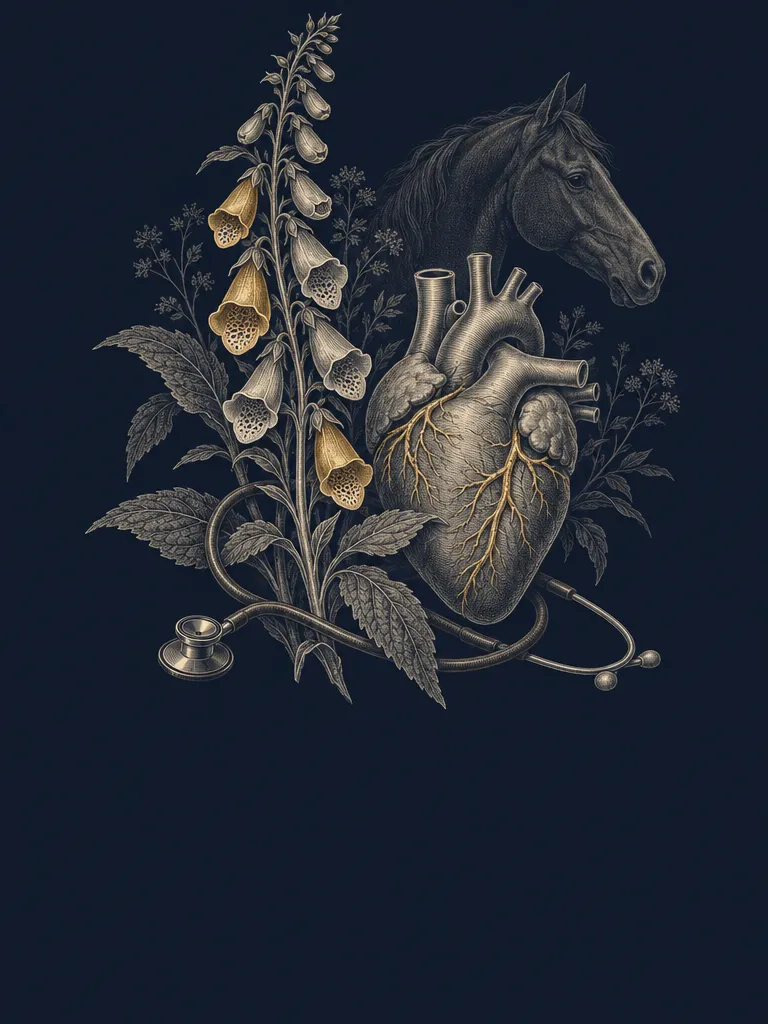
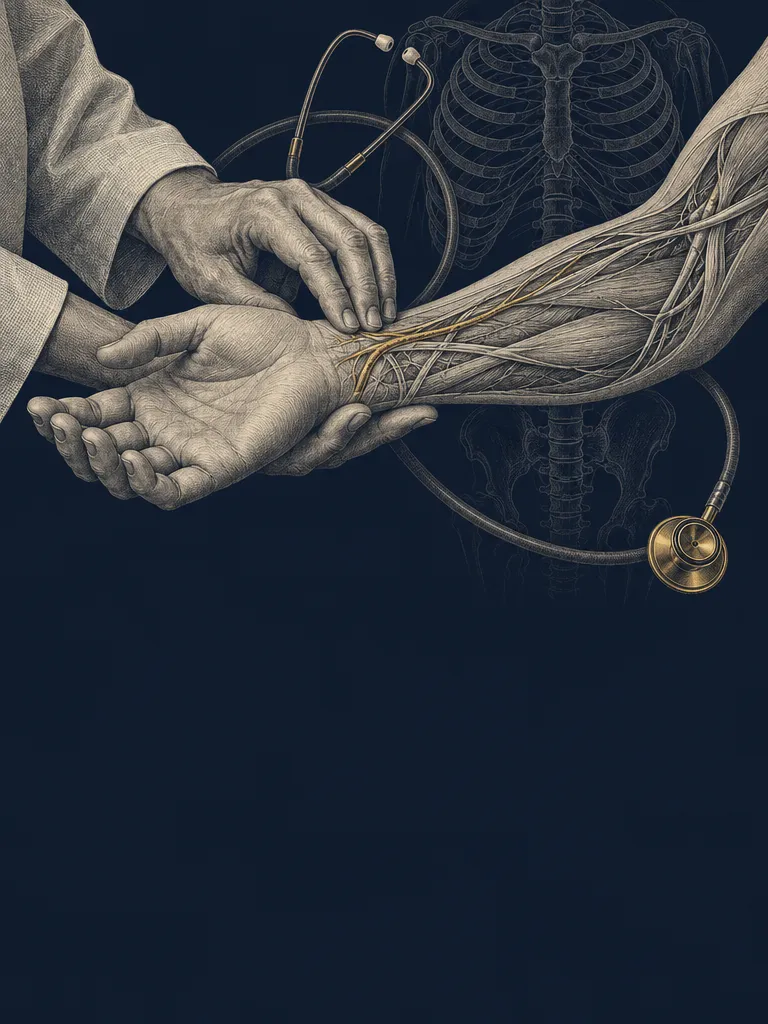
Wat word jij?: menselijkere Zorg-plaat en vullende platen voor Lab, Voeding, Groen en Onderwijs
Claude-Session: https://claude.ai/code/session_01Du5sZ3huPWHdbAscW3KrVh

diff --git a/vervolg.html b/vervolg.html
@@ -398,8 +398,8 @@ body.overzicht .ovz{background:color-mix(in srgb,var(--surface) 86%,transparent)
    Een losse tekst (oude vorm) werkt ook nog. Een film die af is: zet hem als [titel, href], dan wordt het een link.
    'pta' bevat alle films uit 'bouwt'; draai scripts/vervolg_films.py na wijzigingen.
    bouwt: hoofdstukken op deze site waar het gebied op voortbouwt [label, hoofdstuk-id] ===== */
-/* Vullende gravureplaat per richting in het overzicht: img/kunst/vervolg/<id>.webp (Kamiel 21 okt 2026, test met twee) */
-const KPLAAT = ['gedrag','zorg'];
+/* Vullende gravureplaat per richting in het overzicht: img/kunst/vervolg/<id>.webp (Kamiel 21 okt 2026, alle zes richtingen) */
+const KPLAAT = ['gedrag','zorg','lab','voeding','groen','onderwijs'];
 const CLUSTERS = [
  {id:'gedrag',naam:'Gedrag en hersenen',kleur:'paars',sub:'Denken, voelen, opgroeien',tekst:'Opleidingen over denken, voelen en gedrag, en de biologie die daaronder ligt.'},
  {id:'zorg',naam:'Zorg en geneeskunde',kleur:'koraal',sub:'Mens en dier behandelen',tekst:'Opleidingen waarin je met het menselijk (of dierlijk) lichaam werkt: diagnose stellen, behandelen, verzorgen.'},
@@ -766,7 +766,7 @@ function overzicht(){
     return [k?`${k} ${k===1?'film':'films'}`:'',n?`${n} komt nog`:''].filter(Boolean).join(' · ')||'komt nog'};
   const tegel=g=>{const c=CL[g.cluster];return `<li><a href="${stap>1?'?stap='+stap:''}#${g.id}"><span class="tk">${VICOON.includes(g.id)?`<img src="img/kunst/iconen/vervolg/${g.id}.webp?v=1" alt="" width="88" height="88" loading="lazy" decoding="async">`:kunst(c.id,c.kleur)}</span><b>${esc(g.naam).replace(/(\S)wetenschappen/g,'$1\u00ADwetenschappen')}</b><span class="mat">${esc(tel(g))}</span></a></li>`};
   return `<section class="ovz" aria-label="Alle vakgebieden"><header><span class="mono">Alle richtingen · studie en beroep</span><h2>Van spreekkamer tot veldwerk</h2><p>Kies een vakgebied. Elk gebied heeft extra films buiten het PTA, en straks ook een werkdag, een praktijkopdracht en de opleidingen.</p></header>
-    ${CLUSTERS.map(c=>`<div class="ovg" id="${c.id}"><div class="ovg-kop${KPLAAT.includes(c.id)?' met-plaat':''}">${KPLAAT.includes(c.id)?`<span class="kplaat" aria-hidden="true" style="--kp:url(img/kunst/vervolg/${c.id}.webp?v=1)"></span>`:''}<h3>${esc(c.naam)}</h3><span class="mono">${esc(c.sub||'')}</span></div><ul>${GEBIEDEN.filter(g=>g.cluster===c.id).map(tegel).join('')}</ul></div>`).join('')}</section>`;
+    ${CLUSTERS.map(c=>`<div class="ovg" id="${c.id}"><div class="ovg-kop${KPLAAT.includes(c.id)?' met-plaat':''}">${KPLAAT.includes(c.id)?`<span class="kplaat" aria-hidden="true" style="--kp:url(img/kunst/vervolg/${c.id}.webp?v=2)"></span>`:''}<h3>${esc(c.naam)}</h3><span class="mono">${esc(c.sub||'')}</span></div><ul>${GEBIEDEN.filter(g=>g.cluster===c.id).map(tegel).join('')}</ul></div>`).join('')}</section>`;
 }
 function render(){
   const g=GB[(location.hash||'').slice(1)];

diff --git a/CLAUDE.md b/CLAUDE.md
@@ -1,6 +1,6 @@
 # Biologie bij Kamiel — werkafspraken voor Claude
 
-Statische site (GitHub Pages, branch `main`, map `/`): `index.html` is de nieuwe site (sinds 12 okt 2026; de inhoud staat als JSON in `HOOFDSTUKKEN` en `NIVEAUS` bovenin het script, hash-routes `#<hoofdstuk>`, `#films`, `#tools`, `#pta`). Sinds 20 okt 2026 is de hoofdpagina (`#home`, menu 'Thema's') opgebouwd uit drie vlakken los van het PTA: 'Van molecuul tot planeet' (alle thema's, gegroepeerd in `BASIS` in het script), 'Eerste ontdekkingen' (onderbouw, uit `NIVEAUS.onderbouw`) en 'Een kijkje vooruit' (Wat word jij?, richtingen in `VERDER` → `vervolg.html#<cluster>`); de oude hoofdpagina per PTA-onderdeel staat onder het tabblad 'PTA Agora' (`#pta`, functie `pta()`). Een nieuw thema zet je ook in `BASIS`. Achtergrond hoofdpagina (Kamiel 20 okt 2026: kunst en biologie gecombineerd, niet per se de thema's): vier procedureel getekende bio-art-platen in `KUNSTPLATEN` (Groei: zonnebloemspiraal en varens · Onder de microscoop: radiolariën en diatomeeën · Netwerk: schimmeldraden · In zee: kwallen en nautilus) plus beeldplaten in `FOTOPLATEN`, met ElevenLabs gemaakte nieuwe versies van dezelfde vier (21 okt 2026: `img/kunst/plankton.webp`, `groei.webp`, `netwerk.webp`, `zee.webp`, en als nieuwe thema's zonder oude tekening `oerbos.webp`, `mieren.webp` (mierenkolonie) en `kolibrie.webp` (de kolibrie is een videoloop van 5 s, `kolibrie.webm` + `.mp4`, poster = `kolibrie.webp`; derde veld in `FOTOPLATEN` = video, speelt alleen als hij zichtbaar is via `grondVideo()`, niet bij 'minder beweging'; seedance-video kostte ±14.000 credits. Vierde veld `{voor:[cx,cy,rx,ry]}` (beeldfracties) tekent dat deel van de plaat via canvas `#kunstvoor` (`voorLus`, mix-blend lighten, zachte ellips) bovenop de titelkaart en het eerste vlak eronder: Kamiel wilde de kolibrie vóór de kaart). Kamiel 21 okt 2026: de getekende platen staan in de donkere stand even uit (`TEKENPLATEN_DONKER=false`, klasse `zonder-tekening`); in de lichte stand draaien ze nog, want de beelden zijn donker; De ronde themapictogrammen in de themategels van de hoofdpagina zijn sinds 21 okt 2026 ElevenLabs-medaillons (`img/kunst/iconen/<id>.webp`, uitgeknipt uit één vel zodat de stijl gelijk is; Kamiel vond de eerste klassieke versie te 'vergankelijk' en wilde iets frissers: daarna een frisse glanzende versie (`iconen/fris/`, `varianten/iconen-fris-*.webp`), toen een tussenversie (inktlijnen + aquarel, `iconen/aquarel/`, `varianten/iconen-midden-*.webp`), en Kamiel wilde ze 'nog meer in de stijl van de achtergronden, qua look én thema': nu de gloedversie (Haeckel-achtig, gloeiend op navy met bokeh, zelfde stijl als de ElevenLabs-achtergronden; onderwerpen als bio-art: darmvlokken bij Voeding, alveolen bij Gaswisseling, wolf bij Ecologie, radiolarie in een boek bij Examen) uit `varianten/iconen-gloed-3.webp`, op 88 px (72 px op de telefoon), uitgeknipt op 264 px; vel altijd als raster 6×3 laten maken, zodat de cirkels in 16:9 echt rond blijven (4×4 werd ovaal); uitknippen met `python3 scripts/iconen_knippen.py <vel.png> img/kunst/iconen <voorbeeld.png>` (cirkelfit op de gouden rand); de klassieke staat in `iconen/klassiek/` en `varianten/iconen-1..4.webp`; na het vervangen de `?v=` bij de pictogrammen in index.html ophogen), lijst `ICOON` in index.html (niet in de lijst = oude lijntekening uit `KUNST`; elders op de site blijven de lijntekeningen). Ook de rijen 'Eerste ontdekkingen' (onderbouw, `OB`) en 'Een kijkje vooruit' (`VERDER`) op de hoofdpagina hebben sinds 21 okt 2026 gloedmedaillons van 56 px: `img/kunst/iconen/home/ob-<kerndoel>.webp` en `v-<richting>.webp`, lijst `HICOON` in index.html; vel `img/kunst/varianten/home/vel-1.webp` (18 vakken, gpt-image-2 met het vervolg-vel als stijlreferentie, ±420 credits; gekozen vak 1, 3, 5, 7, 9, 12, 13, 15, 16, 17, de andere vakken zijn reserves: hart van cellen, paardenbloem, witte bloedcel, uil met muis, chimpansee, stethoscoophart, vergrootglas op blad, schoolbord). Themaplaten als ElevenLabs-gravure voor alle 16 thema's (Kamiel 21 okt 2026 koos de gravurestijl, net als de wolf; de procedurele platen in `T.<id>` blijven als reserve staan): `img/themakunst/<id>-gravure.webp`, ingebouwd via `GRAVURE` in js/themakunst.js (`[bestand, x, y, breedte]` in het 1600×1000-vlak, standaard 640, 215, 900; zachte radiale maskerrand zodat de iets lichtere navy van het beeld niet als rechthoek opvalt; hoofdfiguur leeg, zonder uitsparing). Ecologie gebruikt sinds 21 okt 2026 ook een gravure in deze stijl (`ecologie-gravure.webp`: wolf met edelhert, wild zwijn, haas, eik en den; Kamiel vond de nachtscène met huilende wolf 'nét een andere stijl'; die staat nog als `ecologie-wolf.webp` en in `T.ecologie`). Evolutie: Kamiel wil Charles Darwin, dus `evolutie-darwin.webp` (Darwin in ovaal medaillon tussen vinken, reuzenschildpad en de Beagle); de vinkenboom staat als `evolutie-gravure-vinken.webp`. De kleurproeven staan nog in `img/kunst/thema/` en op kunst.html; Haeckel-achtig, donker navy, rustig vlak links-midden; alleen in de donkere stand, de roulatie slaat verborgen platen over). Kamiel wil oud en nieuw voorlopig náást elkaar in de roulatie om te vergelijken. Alle achtergronden worden bewaard in `img/kunst/`: `oud/` = de getekende platen als SVG (rustig en intens, donkere kleuren; opnieuw te maken uit `KUNSTPLATEN`), `varianten/` = alle ElevenLabs-varianten (`<thema>-1..4.webp`; van plankton alleen de gekozen versie), ElevenLabs-flow https://elevenlabs.io/app/flows/CJlOchvhkxSLAAT5zVTX. Vergelijkpagina: `kunst.html` (niet gelinkt, noindex; lijst `THEMAS` in het script); zet een nieuwe achtergrond daar ook bij, vaste laag over het hele scherm die elke 14 s overvloeit (`grondWissel`); geen korrel. Drie standen via de knop naast licht/donker (`#kunstknop`, alleen op de hoofdpagina; localStorage `kunst`, ook `?kunst=`): `rustig` (standaard; de kunst schemert licht door de vlakken), `intens` (veel meer en vollere kunst met kleurwolken, dikkere lijnen, titel op matglas) en `uit`. Body krijgt `data-kunst`. Themapagina's (Kamiel 20 okt 2026: intense kunst, dikker en kleurrijker, geïnspireerd door het thema zelf) krijgen een eigen plaat uit `js/themakunst.js`: `THEMAKUNST[id]()` = achtergrond (vaste laag, met een uitgespaarde ellips rechtsboven) en `THEMAHELD[id]()` = hoofdfiguur groot in de kop (bv. een eigen schets van Charles Darwin bij Evolutie, hart bij Transport, neuron bij Regeling). Dezelfde kunstknop geldt (rustig = halve sterkte, intens = vol, uit = gewone pagina met het oude embleem); kop en filmlijst staan dan op matglas. Na een wijziging aan themakunst.js de versie `?v=` in index.html bijwerken (md5, 8 tekens). Een nieuw thema krijgt ook een plaat en een hoofdfiguur. Stijl (Kamiel 20 okt 2026, na de eerste versie): realistischer en serieuzer, als oude natuurplaten en gravures: fijne inktlijnen (var(--text)/--text2), arcering en stippels in plaats van vlakke kleur (patterns `tk-arc`, `tk-kruis`, `tk-stip`), kleur alleen waar het iets toevoegt (per thema in `ACCENT`, bv. rood bloed bij Transport, groene erwten bij Erfelijkheid); Darwin als zwart-witte gravure in een ovaal medaillon. Ecologie (Kamiel 21 okt 2026: 'een majestueuze wolf in een donker woud, als een echt beest'): `wolf()` = silhouet uit punten (Catmull-Rom) met duizenden vachtstreken per lichaamsdeel (donker zadel, lichte buik, halskraag, donkere staartpunt), barnsteen ogen, vaste grijstinten zodat hij in licht en donker hetzelfde is; `woud()` = vaste nachtscène (maan, sterren, drie rijen sparren, mist). Sinds 21 okt 2026 (Kamiel: 'strakke versie uitproberen') is de Ecologie-plaat een met ElevenLabs gemaakte gravure (strakke lijnstijl, huilende wolf, maan, Veluwe-achtige bosrand) in `img/themakunst/ecologie-wolf.webp`, rechts geplaatst met zacht uitlopende randen op navy (sinds 21 okt middag kleiner en verder rechts: x 830, y 215, b 780, zodat maan en wolf naast de titelkaart en onder de menubalk vallen); de hoofdfiguur is daarom leeg. `woud()` en `wolf()` staan nog in themakunst.js. Volledige scènes staan in `THEMAKUNST_ZONDERGAT` (geen uitsparing achter de hoofdfiguur). Tabblad 'Agora onderbouw' (`#onderbouw`, functie `onderbouwPagina()`) toont de kerndoelen als kaarten; op de hoofdpagina staan géén kerndoelcodes (Kamiel 20 okt 2026), het onderbouwvlak gebruikt de lijst `OB`. Hoofdmenu (index, challenges, vervolg; houd ze gelijk): Thema's · Films · Tools · Agora (uitklapmenu `details.menu`: PTA Agora, Agora onderbouw, Jaarplanner, PTA-route, Examenatlas, Challenges) · Wat word jij? · Klas live, op één regel. 'Klas live' is sinds 20 okt 2026 de naam voor de werksessies (`sessie/`) op alles wat leerlingen en docent zien; in code en bestandsnamen heet het nog sessie/werksessie. De havo/vwo-knop staat alleen nog op de PTA Agora-pagina zelf, niet in de kopbalk. De oude site staat als `oud.html` en wordt niet meer bijgewerkt; `nieuw/` stuurt door naar de hoofdpagina. Films in `films/<hoofdstuk>/`, tools in `tools/`, `pta-route.html`. `jaarplanner.html` (sinds 21 okt 2026 op de site, Agora-menu) is de jaarplanner 2026-2027 week voor week (tabs havo 4, havo 5, vwo 4+5, vwo 6, PTA-route; `#havo4` enz.), overgenomen uit de claude.ai-artifact https://claude.ai/artifact/W5ueD4LEwp5Dpj8kKWqb5M met `SITE='.'` zodat filmlinks relatief zijn; data in `PLANNERS` bovenin het script. Pas een wijziging aan de planner voortaan hier aan (en eventueel ook in de artifact). `examenatlas.html` is de Examenatlas (CE biologie 2018–2026, ingang per PTA-subonderdeel; data per niveau in `examenatlas/havo.json` en `examenatlas/vwo.json`, gemaakt met `scripts/examenatlas_bouwen.py` uit de oude claude.ai-atlas; koppeling onderwerp → subonderdeel via de methodehoofdstukken, handmatige correcties in `OVERRIDE`; de echte vragen en antwoorden staan als webp-uitsneden in `examenatlas/img/<niveau>/<examen>/` (`<nr>a.webp` = vraag met info sinds de vorige vraag, `a<nr>a.webp` = beoordelingsmodel), gemaakt met `scripts/examenknip/knip.py`, `knip_c.py` en `knip_u.py` (`u<nr>a.webp` = deel van de uitwerkbijlage) uit de pdf's van Kamiel en gekoppeld met `scripts/examenatlas_vragen.py` — draai dat opnieuw na `examenatlas_bouwen.py`). `challenges.html` is een aparte pagina met biologische challenges (hoofdvraag + subvragen); een nieuwe challenge = blok in `CHALLENGES` plus een lijntekening in `KUNST` (sleutel = id), bovenin het script van die pagina. Elke subvraag klapt uit met hulp uit `js/challenges-hulp.js` (`HULP['<id>-<nr>']` = `{c: context, h: 3 hints van algemeen naar concreet (nooit het antwoord), z: zoektermen, k: 'je bent klaar als'-criteria, let: optionele veiligheidsnoot}`); de leerling ziet eerst context + 'denk eerst zelf', hints en zoektermen pas op verzoek, één voor één (Kamiel 20 okt 2026: uitdaging niet weggeven). Een nieuwe challenge krijgt dus ook vier `HULP`-blokken; deeplink `challenges.html#<id>-<nr>` opent die subvraag. `vervolg.html` ('Wat word jij?', studie en beroep) toont vervolgopleidingen per richting (`CLUSTERS`) en gebied (`GEBIEDEN`); per gebied staan de extra films voor dat vak, buiten het PTA (`basis`; een geplande film is een object `{titel, vraag, opbouw, nieuw, bouwt, advies, was, id}` en verschijnt als uitklapbare 'komt nog'-rij met startvraag, hoofdstukken, wat hij toevoegt en de PTA-films waarop hij voortbouwt; dezelfde `id` in meerdere gebieden = één gedeelde film; `schrappen:true` + `reden` = voorstel om te schrappen, alleen zichtbaar met `?k=1`; de films mogen buiten de biologie gaan en laten zien wat je in dat vak echt doet: methoden, gesprekken, techniek, beleid; een af onderwerp wordt `[titel, href]`; zulke films staan in `films/vervolg/`, duur in `films/vervolg/films.json`), en apart daarvan bestaande films uit de lesstof (`pta`: lijst met hrefs, op de pagina 'Al op de site · uit de lesstof (PTA)'; dit blok staat sinds 20 okt 2026 op Kamiels verzoek uit via `TOON_PTA=false` in vervolg.html, de data blijft staan; ook het blok 'De gedeelde kern' (`KERN`) staat uit via `TOON_KERN=false`: Kamiel vindt dat leerlingen eerst het hele curriculum doen voordat ze deze films kijken). Titels en hoofdstuk van die films komen uit `FILMS` in vervolg.html: draai `python3 scripts/vervolg_films.py` na het toevoegen of hernoemen van films (meldt ook dode hrefs). Bovenaan staat sinds 21 okt 2026 (Kamiel: 'ook op deze manier' als 'Van molecuul tot planeet') het overzicht 'Van spreekkamer tot veldwerk' (functie `overzicht()`): per richting een rij met naam + korte ondertitel (`sub` in `CLUSTERS`), per gebied een rond ElevenLabs-medaillon in de gloedstijl van de themapictogrammen (`img/kunst/iconen/vervolg/<id>.webp`, lijst `VICOON`; vellen `img/kunst/varianten/iconen-vervolg-a1..a3` (18 gebieden, gekozen a3) en `-b2..b4` (5 gebieden, gekozen b4), uitgeknipt met `scripts/iconen_knippen.py <vel> img/kunst/iconen/vervolg --ids <ids in volgorde>`; landbouw en tuin met de hand nagesneden) met telling films / komt nog; klik opent de eigen pagina van dat gebied: `vervolg.html#<gebied>` (Kamiel 21 okt 2026, functie `gebiedPagina()`: kop met richting · niveau, naam, intro en het medaillon groot, dan de stappenbalk en de inhoud van `kaart(g)` zonder eigen kop, onderaan 'Ook in <richting>' met de andere gebieden). De overzichtspagina toont alleen nog het overzicht; `#<richting>` (links vanaf de hoofdpagina) scrollt naar die rij. Achtergrondplaat per gebied (Kamiel 21 okt 2026 akkoord met gravure, zelfde stijl als de themaplaten, onderwerp = de werkplek van het vak met één biologisch element, geen mensen): `img/themakunst/vervolg/<id>.webp`, lijst `VPLAAT` in vervolg.html; alleen in de donkere stand (dan vervalt het grote medaillon), rechts uitgelijnd met zachte rand links en onder (`.gplaat`). Alle 23 gebieden hebben er een (21 okt 2026; elk de werkplek van het vak, bv. psychologie spreekkamer met hersenplaat, diergeneeskunde stal met koe en dokterstas, ecologie poel met reiger en schepnet); varianten in `img/kunst/varianten/vervolg/plaat-*.webp`; prompt = die van `evolutie-darwin` met ander onderwerp, gpt-image-2.5-sunburst. Richtingtegels in het overzicht (Kamiel 21 okt 2026: 'een achtergrond die het hele vlak vult'): vullende gravureplaat achter naam + ondertitel, `img/kunst/vervolg/<richting>.webp` (3:4, gpt-image-2.5-sunburst, onderwerp boven, onderste 40% leeg navy), lijst `KPLAAT` in vervolg.html, alleen in de donkere stand, met verloop naar `--surface` zodat de titel leesbaar blijft (klasse `met-plaat`, laag `.kplaat`). Test met gedrag (brein met wortels van neuronen en een spreeuwenzwerm) en zorg (vingerhoedskruid, hart, stethoscoop, paard); varianten in `img/kunst/varianten/vervolg/richting-<id>-1..4.webp`, ElevenLabs-flow https://elevenlabs.io/app/flows/hclCysnlmjmFGUubZOG6. De overzichtspagina (zonder #gebied, body-klasse `overzicht`) heeft een vaste achtergrond `img/kunst/vervolg-grond.webp` in gloedstijl (gouden levensboom-pad vanaf een schrift met kiemplant naar brein, hart, kolf, microscoop, reiger, koe, kies, DNA, infuus), laag `.vgrond`, alleen in de donkere stand, links verloop naar navy voor leesbaarheid; het lijnembleem rechts in de kop is dan verborgen. Filmmedaillons (Kamiel 21 okt 2026): alle 157 films in de filmlijsten (themapagina's én 'Wat word jij?') hebben een rond medaillon in dezelfde gloedstijl in plaats van de lijntekening uit `FILMKUNST`: `img/kunst/films/<slug>.webp`, onderwerp per film (één duidelijk ding op 72 px, gekozen uit titel en startvraag) in `img/kunst/films/ONDERWERPEN.tsv`, vellen in `img/kunst/varianten/films/vel-1..9.webp` (18 per vel, raster 6×3, gpt-image-2, één beeld per vel, ±185 credits). Knippen met `scripts/iconen_knippen.py <vel> img/kunst/films <voorbeeld> --ids <slugs>`, daarna `python3 scripts/filmiconen.py` (zet de lijst `FICOON` in index.html en vervolg.html). Een nieuwe film krijgt ook een medaillon; zonder valt hij terug op de lijntekening. Kamiel vond 4 varianten per beeld te veel credits: maak er voortaan 1 (hooguit 2). Een nieuw gebied krijgt ook een medaillon (anders valt hij terug op de lijntekening van de richting). Stap 4 'Opleidingen' (sinds 20 okt 2026, eerst alleen psychologie als voorbeeld): veld `opleidingen` per gebied `{gecontroleerd, jaar, routes:[{niveau, naam, waar, duur, toelating, selectie, link}], let, doorstroom, kennismaken, meer:[[tekst,url]]}`, getoond door `opleidingenBlok`. De balk met de 4 stappen bovenaan (`STAPPEN`) is sinds 20 okt 2026 aanklikbaar en wisselt alle gebiedskaarten tegelijk (variabele `stap`, link `?stap=4`); Stap 1 (de films) is standaard, stap 2/3 en een stap 4 zonder data tonen een 'komt later'-tekst. Kamiel wilde géén tabrij per kaart; de balk (`.stapbalk`) blijft bij scrollen onder de menubalk staan en wordt dan compact (klasse `vast`, functie `plak`; op de telefoon één regel met korte namen `kort`); instellingen dicht bij huis eerst (Radboud, HAN, ROC Nijmegen, Wageningen), feiten opzoeken en datum bijwerken. Films voor 'Wat word jij?' bouw je volgens `films/vervolg/BOUWEN.md` (werkmap `hw/` buiten de repo opzetten, API, bouwen, in de repo zetten); werkwijze per gebied: eerst een kritische check welke geplande films echt iets toevoegen, Kamiel keurt goed, dan alles bouwen. Stap 2 'Een dag uit het werk' volgt (pilot psychologie); stap 3 'Praktijkopdracht' blijft bewust 'later' tot de tools beter zijn, ideeën per gebied in `films/vervolg/STAP3-WENSEN.md`.
+Statische site (GitHub Pages, branch `main`, map `/`): `index.html` is de nieuwe site (sinds 12 okt 2026; de inhoud staat als JSON in `HOOFDSTUKKEN` en `NIVEAUS` bovenin het script, hash-routes `#<hoofdstuk>`, `#films`, `#tools`, `#pta`). Sinds 20 okt 2026 is de hoofdpagina (`#home`, menu 'Thema's') opgebouwd uit drie vlakken los van het PTA: 'Van molecuul tot planeet' (alle thema's, gegroepeerd in `BASIS` in het script), 'Eerste ontdekkingen' (onderbouw, uit `NIVEAUS.onderbouw`) en 'Een kijkje vooruit' (Wat word jij?, richtingen in `VERDER` → `vervolg.html#<cluster>`); de oude hoofdpagina per PTA-onderdeel staat onder het tabblad 'PTA Agora' (`#pta`, functie `pta()`). Een nieuw thema zet je ook in `BASIS`. Achtergrond hoofdpagina (Kamiel 20 okt 2026: kunst en biologie gecombineerd, niet per se de thema's): vier procedureel getekende bio-art-platen in `KUNSTPLATEN` (Groei: zonnebloemspiraal en varens · Onder de microscoop: radiolariën en diatomeeën · Netwerk: schimmeldraden · In zee: kwallen en nautilus) plus beeldplaten in `FOTOPLATEN`, met ElevenLabs gemaakte nieuwe versies van dezelfde vier (21 okt 2026: `img/kunst/plankton.webp`, `groei.webp`, `netwerk.webp`, `zee.webp`, en als nieuwe thema's zonder oude tekening `oerbos.webp`, `mieren.webp` (mierenkolonie) en `kolibrie.webp` (de kolibrie is een videoloop van 5 s, `kolibrie.webm` + `.mp4`, poster = `kolibrie.webp`; derde veld in `FOTOPLATEN` = video, speelt alleen als hij zichtbaar is via `grondVideo()`, niet bij 'minder beweging'; seedance-video kostte ±14.000 credits. Vierde veld `{voor:[cx,cy,rx,ry]}` (beeldfracties) tekent dat deel van de plaat via canvas `#kunstvoor` (`voorLus`, mix-blend lighten, zachte ellips) bovenop de titelkaart en het eerste vlak eronder: Kamiel wilde de kolibrie vóór de kaart). Kamiel 21 okt 2026: de getekende platen staan in de donkere stand even uit (`TEKENPLATEN_DONKER=false`, klasse `zonder-tekening`); in de lichte stand draaien ze nog, want de beelden zijn donker; De ronde themapictogrammen in de themategels van de hoofdpagina zijn sinds 21 okt 2026 ElevenLabs-medaillons (`img/kunst/iconen/<id>.webp`, uitgeknipt uit één vel zodat de stijl gelijk is; Kamiel vond de eerste klassieke versie te 'vergankelijk' en wilde iets frissers: daarna een frisse glanzende versie (`iconen/fris/`, `varianten/iconen-fris-*.webp`), toen een tussenversie (inktlijnen + aquarel, `iconen/aquarel/`, `varianten/iconen-midden-*.webp`), en Kamiel wilde ze 'nog meer in de stijl van de achtergronden, qua look én thema': nu de gloedversie (Haeckel-achtig, gloeiend op navy met bokeh, zelfde stijl als de ElevenLabs-achtergronden; onderwerpen als bio-art: darmvlokken bij Voeding, alveolen bij Gaswisseling, wolf bij Ecologie, radiolarie in een boek bij Examen) uit `varianten/iconen-gloed-3.webp`, op 88 px (72 px op de telefoon), uitgeknipt op 264 px; vel altijd als raster 6×3 laten maken, zodat de cirkels in 16:9 echt rond blijven (4×4 werd ovaal); uitknippen met `python3 scripts/iconen_knippen.py <vel.png> img/kunst/iconen <voorbeeld.png>` (cirkelfit op de gouden rand); de klassieke staat in `iconen/klassiek/` en `varianten/iconen-1..4.webp`; na het vervangen de `?v=` bij de pictogrammen in index.html ophogen), lijst `ICOON` in index.html (niet in de lijst = oude lijntekening uit `KUNST`; elders op de site blijven de lijntekeningen). Ook de rijen 'Eerste ontdekkingen' (onderbouw, `OB`) en 'Een kijkje vooruit' (`VERDER`) op de hoofdpagina hebben sinds 21 okt 2026 gloedmedaillons van 56 px: `img/kunst/iconen/home/ob-<kerndoel>.webp` en `v-<richting>.webp`, lijst `HICOON` in index.html; vel `img/kunst/varianten/home/vel-1.webp` (18 vakken, gpt-image-2 met het vervolg-vel als stijlreferentie, ±420 credits; gekozen vak 1, 3, 5, 7, 9, 12, 13, 15, 16, 17, de andere vakken zijn reserves: hart van cellen, paardenbloem, witte bloedcel, uil met muis, chimpansee, stethoscoophart, vergrootglas op blad, schoolbord). Themaplaten als ElevenLabs-gravure voor alle 16 thema's (Kamiel 21 okt 2026 koos de gravurestijl, net als de wolf; de procedurele platen in `T.<id>` blijven als reserve staan): `img/themakunst/<id>-gravure.webp`, ingebouwd via `GRAVURE` in js/themakunst.js (`[bestand, x, y, breedte]` in het 1600×1000-vlak, standaard 640, 215, 900; zachte radiale maskerrand zodat de iets lichtere navy van het beeld niet als rechthoek opvalt; hoofdfiguur leeg, zonder uitsparing). Ecologie gebruikt sinds 21 okt 2026 ook een gravure in deze stijl (`ecologie-gravure.webp`: wolf met edelhert, wild zwijn, haas, eik en den; Kamiel vond de nachtscène met huilende wolf 'nét een andere stijl'; die staat nog als `ecologie-wolf.webp` en in `T.ecologie`). Evolutie: Kamiel wil Charles Darwin, dus `evolutie-darwin.webp` (Darwin in ovaal medaillon tussen vinken, reuzenschildpad en de Beagle); de vinkenboom staat als `evolutie-gravure-vinken.webp`. De kleurproeven staan nog in `img/kunst/thema/` en op kunst.html; Haeckel-achtig, donker navy, rustig vlak links-midden; alleen in de donkere stand, de roulatie slaat verborgen platen over). Kamiel wil oud en nieuw voorlopig náást elkaar in de roulatie om te vergelijken. Alle achtergronden worden bewaard in `img/kunst/`: `oud/` = de getekende platen als SVG (rustig en intens, donkere kleuren; opnieuw te maken uit `KUNSTPLATEN`), `varianten/` = alle ElevenLabs-varianten (`<thema>-1..4.webp`; van plankton alleen de gekozen versie), ElevenLabs-flow https://elevenlabs.io/app/flows/CJlOchvhkxSLAAT5zVTX. Vergelijkpagina: `kunst.html` (niet gelinkt, noindex; lijst `THEMAS` in het script); zet een nieuwe achtergrond daar ook bij, vaste laag over het hele scherm die elke 14 s overvloeit (`grondWissel`); geen korrel. Drie standen via de knop naast licht/donker (`#kunstknop`, alleen op de hoofdpagina; localStorage `kunst`, ook `?kunst=`): `rustig` (standaard; de kunst schemert licht door de vlakken), `intens` (veel meer en vollere kunst met kleurwolken, dikkere lijnen, titel op matglas) en `uit`. Body krijgt `data-kunst`. Themapagina's (Kamiel 20 okt 2026: intense kunst, dikker en kleurrijker, geïnspireerd door het thema zelf) krijgen een eigen plaat uit `js/themakunst.js`: `THEMAKUNST[id]()` = achtergrond (vaste laag, met een uitgespaarde ellips rechtsboven) en `THEMAHELD[id]()` = hoofdfiguur groot in de kop (bv. een eigen schets van Charles Darwin bij Evolutie, hart bij Transport, neuron bij Regeling). Dezelfde kunstknop geldt (rustig = halve sterkte, intens = vol, uit = gewone pagina met het oude embleem); kop en filmlijst staan dan op matglas. Na een wijziging aan themakunst.js de versie `?v=` in index.html bijwerken (md5, 8 tekens). Een nieuw thema krijgt ook een plaat en een hoofdfiguur. Stijl (Kamiel 20 okt 2026, na de eerste versie): realistischer en serieuzer, als oude natuurplaten en gravures: fijne inktlijnen (var(--text)/--text2), arcering en stippels in plaats van vlakke kleur (patterns `tk-arc`, `tk-kruis`, `tk-stip`), kleur alleen waar het iets toevoegt (per thema in `ACCENT`, bv. rood bloed bij Transport, groene erwten bij Erfelijkheid); Darwin als zwart-witte gravure in een ovaal medaillon. Ecologie (Kamiel 21 okt 2026: 'een majestueuze wolf in een donker woud, als een echt beest'): `wolf()` = silhouet uit punten (Catmull-Rom) met duizenden vachtstreken per lichaamsdeel (donker zadel, lichte buik, halskraag, donkere staartpunt), barnsteen ogen, vaste grijstinten zodat hij in licht en donker hetzelfde is; `woud()` = vaste nachtscène (maan, sterren, drie rijen sparren, mist). Sinds 21 okt 2026 (Kamiel: 'strakke versie uitproberen') is de Ecologie-plaat een met ElevenLabs gemaakte gravure (strakke lijnstijl, huilende wolf, maan, Veluwe-achtige bosrand) in `img/themakunst/ecologie-wolf.webp`, rechts geplaatst met zacht uitlopende randen op navy (sinds 21 okt middag kleiner en verder rechts: x 830, y 215, b 780, zodat maan en wolf naast de titelkaart en onder de menubalk vallen); de hoofdfiguur is daarom leeg. `woud()` en `wolf()` staan nog in themakunst.js. Volledige scènes staan in `THEMAKUNST_ZONDERGAT` (geen uitsparing achter de hoofdfiguur). Tabblad 'Agora onderbouw' (`#onderbouw`, functie `onderbouwPagina()`) toont de kerndoelen als kaarten; op de hoofdpagina staan géén kerndoelcodes (Kamiel 20 okt 2026), het onderbouwvlak gebruikt de lijst `OB`. Hoofdmenu (index, challenges, vervolg; houd ze gelijk): Thema's · Films · Tools · Agora (uitklapmenu `details.menu`: PTA Agora, Agora onderbouw, Jaarplanner, PTA-route, Examenatlas, Challenges) · Wat word jij? · Klas live, op één regel. 'Klas live' is sinds 20 okt 2026 de naam voor de werksessies (`sessie/`) op alles wat leerlingen en docent zien; in code en bestandsnamen heet het nog sessie/werksessie. De havo/vwo-knop staat alleen nog op de PTA Agora-pagina zelf, niet in de kopbalk. De oude site staat als `oud.html` en wordt niet meer bijgewerkt; `nieuw/` stuurt door naar de hoofdpagina. Films in `films/<hoofdstuk>/`, tools in `tools/`, `pta-route.html`. `jaarplanner.html` (sinds 21 okt 2026 op de site, Agora-menu) is de jaarplanner 2026-2027 week voor week (tabs havo 4, havo 5, vwo 4+5, vwo 6, PTA-route; `#havo4` enz.), overgenomen uit de claude.ai-artifact https://claude.ai/artifact/W5ueD4LEwp5Dpj8kKWqb5M met `SITE='.'` zodat filmlinks relatief zijn; data in `PLANNERS` bovenin het script. Pas een wijziging aan de planner voortaan hier aan (en eventueel ook in de artifact). `examenatlas.html` is de Examenatlas (CE biologie 2018–2026, ingang per PTA-subonderdeel; data per niveau in `examenatlas/havo.json` en `examenatlas/vwo.json`, gemaakt met `scripts/examenatlas_bouwen.py` uit de oude claude.ai-atlas; koppeling onderwerp → subonderdeel via de methodehoofdstukken, handmatige correcties in `OVERRIDE`; de echte vragen en antwoorden staan als webp-uitsneden in `examenatlas/img/<niveau>/<examen>/` (`<nr>a.webp` = vraag met info sinds de vorige vraag, `a<nr>a.webp` = beoordelingsmodel), gemaakt met `scripts/examenknip/knip.py`, `knip_c.py` en `knip_u.py` (`u<nr>a.webp` = deel van de uitwerkbijlage) uit de pdf's van Kamiel en gekoppeld met `scripts/examenatlas_vragen.py` — draai dat opnieuw na `examenatlas_bouwen.py`). `challenges.html` is een aparte pagina met biologische challenges (hoofdvraag + subvragen); een nieuwe challenge = blok in `CHALLENGES` plus een lijntekening in `KUNST` (sleutel = id), bovenin het script van die pagina. Elke subvraag klapt uit met hulp uit `js/challenges-hulp.js` (`HULP['<id>-<nr>']` = `{c: context, h: 3 hints van algemeen naar concreet (nooit het antwoord), z: zoektermen, k: 'je bent klaar als'-criteria, let: optionele veiligheidsnoot}`); de leerling ziet eerst context + 'denk eerst zelf', hints en zoektermen pas op verzoek, één voor één (Kamiel 20 okt 2026: uitdaging niet weggeven). Een nieuwe challenge krijgt dus ook vier `HULP`-blokken; deeplink `challenges.html#<id>-<nr>` opent die subvraag. `vervolg.html` ('Wat word jij?', studie en beroep) toont vervolgopleidingen per richting (`CLUSTERS`) en gebied (`GEBIEDEN`); per gebied staan de extra films voor dat vak, buiten het PTA (`basis`; een geplande film is een object `{titel, vraag, opbouw, nieuw, bouwt, advies, was, id}` en verschijnt als uitklapbare 'komt nog'-rij met startvraag, hoofdstukken, wat hij toevoegt en de PTA-films waarop hij voortbouwt; dezelfde `id` in meerdere gebieden = één gedeelde film; `schrappen:true` + `reden` = voorstel om te schrappen, alleen zichtbaar met `?k=1`; de films mogen buiten de biologie gaan en laten zien wat je in dat vak echt doet: methoden, gesprekken, techniek, beleid; een af onderwerp wordt `[titel, href]`; zulke films staan in `films/vervolg/`, duur in `films/vervolg/films.json`), en apart daarvan bestaande films uit de lesstof (`pta`: lijst met hrefs, op de pagina 'Al op de site · uit de lesstof (PTA)'; dit blok staat sinds 20 okt 2026 op Kamiels verzoek uit via `TOON_PTA=false` in vervolg.html, de data blijft staan; ook het blok 'De gedeelde kern' (`KERN`) staat uit via `TOON_KERN=false`: Kamiel vindt dat leerlingen eerst het hele curriculum doen voordat ze deze films kijken). Titels en hoofdstuk van die films komen uit `FILMS` in vervolg.html: draai `python3 scripts/vervolg_films.py` na het toevoegen of hernoemen van films (meldt ook dode hrefs). Bovenaan staat sinds 21 okt 2026 (Kamiel: 'ook op deze manier' als 'Van molecuul tot planeet') het overzicht 'Van spreekkamer tot veldwerk' (functie `overzicht()`): per richting een rij met naam + korte ondertitel (`sub` in `CLUSTERS`), per gebied een rond ElevenLabs-medaillon in de gloedstijl van de themapictogrammen (`img/kunst/iconen/vervolg/<id>.webp`, lijst `VICOON`; vellen `img/kunst/varianten/iconen-vervolg-a1..a3` (18 gebieden, gekozen a3) en `-b2..b4` (5 gebieden, gekozen b4), uitgeknipt met `scripts/iconen_knippen.py <vel> img/kunst/iconen/vervolg --ids <ids in volgorde>`; landbouw en tuin met de hand nagesneden) met telling films / komt nog; klik opent de eigen pagina van dat gebied: `vervolg.html#<gebied>` (Kamiel 21 okt 2026, functie `gebiedPagina()`: kop met richting · niveau, naam, intro en het medaillon groot, dan de stappenbalk en de inhoud van `kaart(g)` zonder eigen kop, onderaan 'Ook in <richting>' met de andere gebieden). De overzichtspagina toont alleen nog het overzicht; `#<richting>` (links vanaf de hoofdpagina) scrollt naar die rij. Achtergrondplaat per gebied (Kamiel 21 okt 2026 akkoord met gravure, zelfde stijl als de themaplaten, onderwerp = de werkplek van het vak met één biologisch element, geen mensen): `img/themakunst/vervolg/<id>.webp`, lijst `VPLAAT` in vervolg.html; alleen in de donkere stand (dan vervalt het grote medaillon), rechts uitgelijnd met zachte rand links en onder (`.gplaat`). Alle 23 gebieden hebben er een (21 okt 2026; elk de werkplek van het vak, bv. psychologie spreekkamer met hersenplaat, diergeneeskunde stal met koe en dokterstas, ecologie poel met reiger en schepnet); varianten in `img/kunst/varianten/vervolg/plaat-*.webp`; prompt = die van `evolutie-darwin` met ander onderwerp, gpt-image-2.5-sunburst. Richtingtegels in het overzicht (Kamiel 21 okt 2026: 'een achtergrond die het hele vlak vult'): vullende gravureplaat achter naam + ondertitel, `img/kunst/vervolg/<richting>.webp` (3:4, gpt-image-2.5-sunburst, onderwerp boven, onderste 40% leeg navy), lijst `KPLAAT` in vervolg.html, alleen in de donkere stand, met verloop naar `--surface` zodat de titel leesbaar blijft (klasse `met-plaat`, laag `.kplaat`). Alle zes richtingen: gedrag (brein met wortels van neuronen en een spreeuwenzwerm), zorg (zorgverlener voelt de pols, onderarm als anatomische studie, stethoscoop, ribbenkast; Kamiel 21 okt 2026: 'meer menselijk', de eerste versie met vingerhoedskruid, hart en paard staat als `richting-zorg-1..4`), lab (microscoop, petrischaal, kolf met DNA-helix), voeding (hardloper als spierstudie met spijsverteringskanaal, stilleven met graan, granaatappel, bonen), groen (eik met wortels, reiger in de poel, akker, libel), onderwijs (open schrift met kiemplant, schetsen van cel, varen, vlinder, vogelskelet, hand met potlood); varianten in `img/kunst/varianten/vervolg/richting-<id>-*.webp`, ElevenLabs-flow https://elevenlabs.io/app/flows/hclCysnlmjmFGUubZOG6. De overzichtspagina (zonder #gebied, body-klasse `overzicht`) heeft een vaste achtergrond `img/kunst/vervolg-grond.webp` in gloedstijl (gouden levensboom-pad vanaf een schrift met kiemplant naar brein, hart, kolf, microscoop, reiger, koe, kies, DNA, infuus), laag `.vgrond`, alleen in de donkere stand, links verloop naar navy voor leesbaarheid; het lijnembleem rechts in de kop is dan verborgen. Filmmedaillons (Kamiel 21 okt 2026): alle 157 films in de filmlijsten (themapagina's én 'Wat word jij?') hebben een rond medaillon in dezelfde gloedstijl in plaats van de lijntekening uit `FILMKUNST`: `img/kunst/films/<slug>.webp`, onderwerp per film (één duidelijk ding op 72 px, gekozen uit titel en startvraag) in `img/kunst/films/ONDERWERPEN.tsv`, vellen in `img/kunst/varianten/films/vel-1..9.webp` (18 per vel, raster 6×3, gpt-image-2, één beeld per vel, ±185 credits). Knippen met `scripts/iconen_knippen.py <vel> img/kunst/films <voorbeeld> --ids <slugs>`, daarna `python3 scripts/filmiconen.py` (zet de lijst `FICOON` in index.html en vervolg.html). Een nieuwe film krijgt ook een medaillon; zonder valt hij terug op de lijntekening. Kamiel vond 4 varianten per beeld te veel credits: maak er voortaan 1 (hooguit 2). Een nieuw gebied krijgt ook een medaillon (anders valt hij terug op de lijntekening van de richting). Stap 4 'Opleidingen' (sinds 20 okt 2026, eerst alleen psychologie als voorbeeld): veld `opleidingen` per gebied `{gecontroleerd, jaar, routes:[{niveau, naam, waar, duur, toelating, selectie, link}], let, doorstroom, kennismaken, meer:[[tekst,url]]}`, getoond door `opleidingenBlok`. De balk met de 4 stappen bovenaan (`STAPPEN`) is sinds 20 okt 2026 aanklikbaar en wisselt alle gebiedskaarten tegelijk (variabele `stap`, link `?stap=4`); Stap 1 (de films) is standaard, stap 2/3 en een stap 4 zonder data tonen een 'komt later'-tekst. Kamiel wilde géén tabrij per kaart; de balk (`.stapbalk`) blijft bij scrollen onder de menubalk staan en wordt dan compact (klasse `vast`, functie `plak`; op de telefoon één regel met korte namen `kort`); instellingen dicht bij huis eerst (Radboud, HAN, ROC Nijmegen, Wageningen), feiten opzoeken en datum bijwerken. Films voor 'Wat word jij?' bouw je volgens `films/vervolg/BOUWEN.md` (werkmap `hw/` buiten de repo opzetten, API, bouwen, in de repo zetten); werkwijze per gebied: eerst een kritische check welke geplande films echt iets toevoegen, Kamiel keurt goed, dan alles bouwen. Stap 2 'Een dag uit het werk' volgt (pilot psychologie); stap 3 'Praktijkopdracht' blijft bewust 'later' tot de tools beter zijn, ideeën per gebied in `films/vervolg/STAP3-WENSEN.md`.
 
 ## Elke nieuwe of aangepaste film krijgt een bronmap
 
